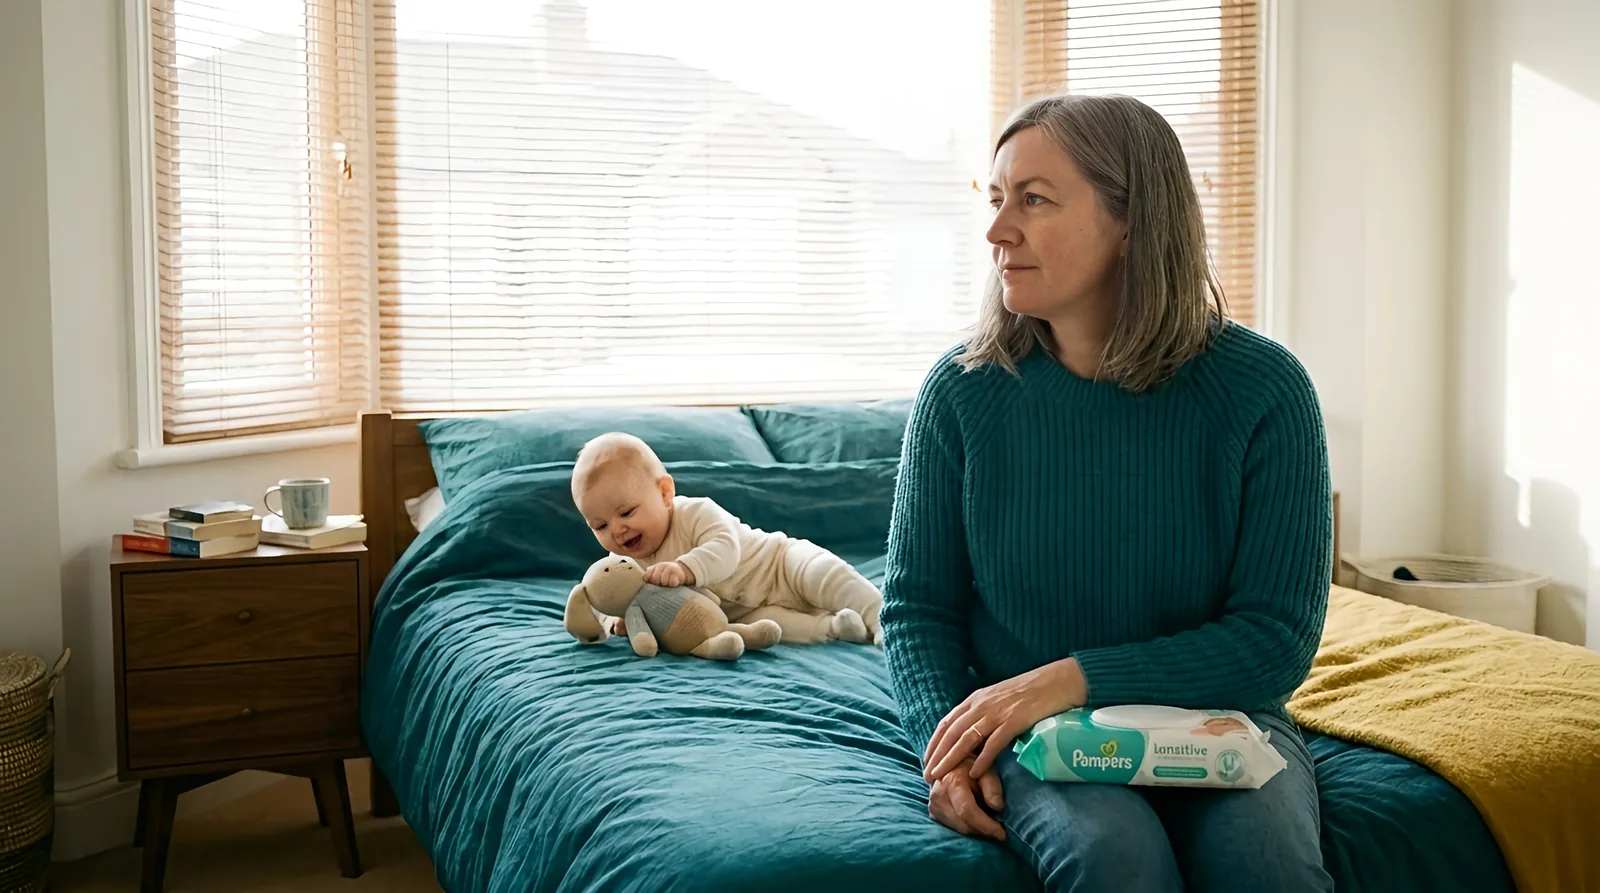
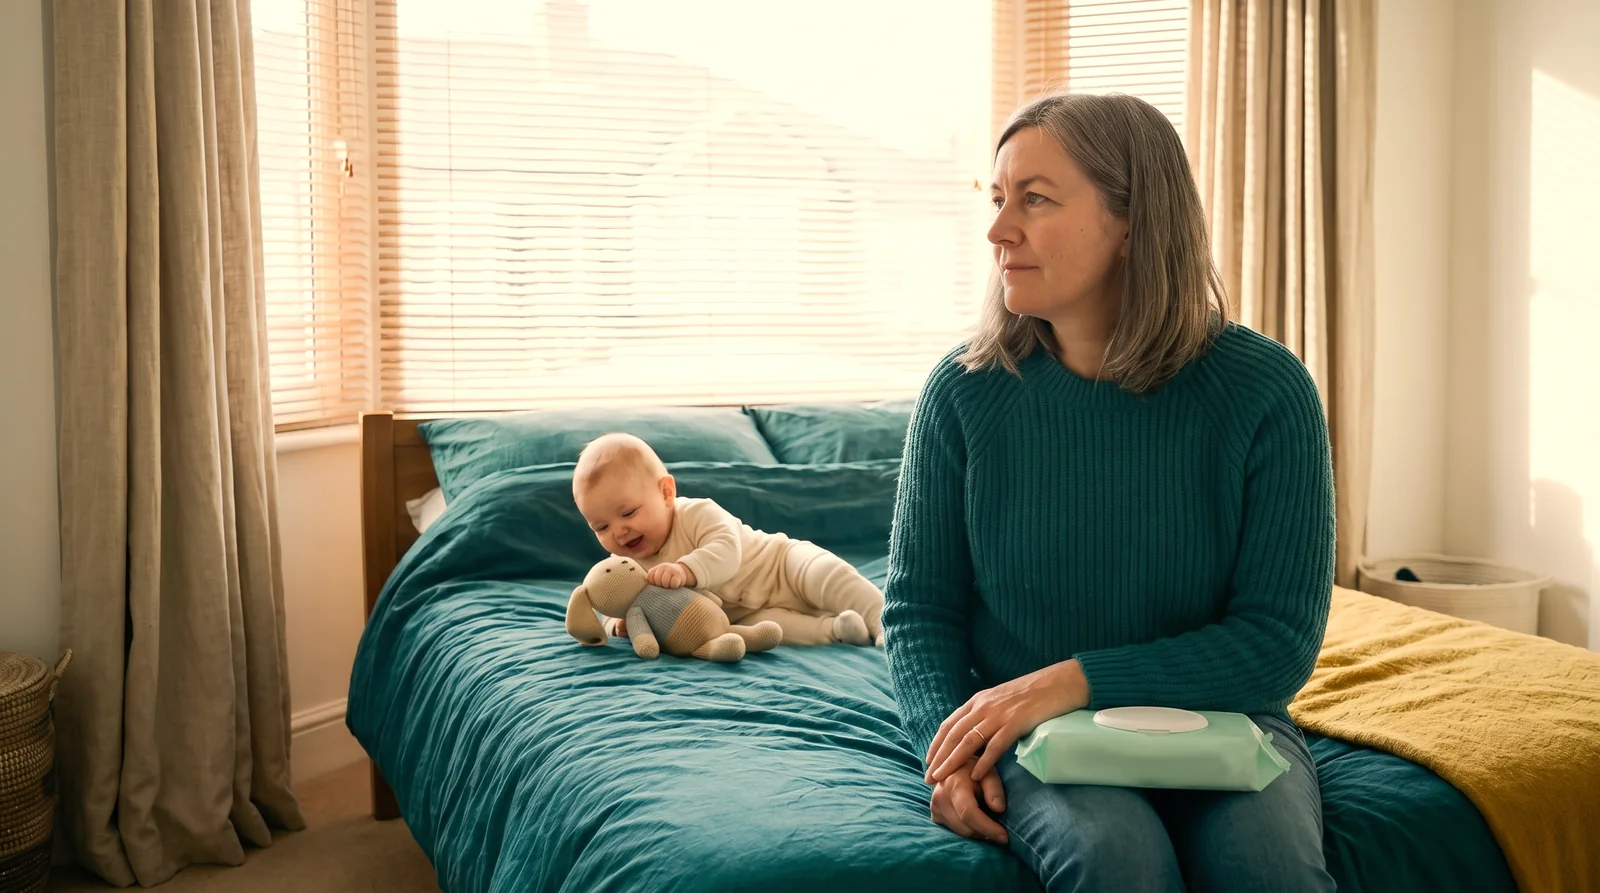
Photos: arebabywipe hero/villain/turning point reshot, plain unbranded pack (no Pampers), curtains and checklist fixes

diff --git a/blog-pipeline/photos-completed/2026-08-26.md b/blog-pipeline/photos-completed/2026-08-26.md
@@ -4,7 +4,7 @@ post_title: Are Baby Wipes Safe? What You Are Wiping On a Baby Ten Times a Day (
 slug: are-baby-wipes-safe
 status: done
 cameron_processed: false
-note: "RESHOT 2026-08-23 on ImagineArt (Nano Banana Pro, each frame enhanced to 2752px then delivered at 1600px webp). THIS SUPERSEDES the 2026-08-11 version, which rendered the wipes pack completely BLANK with no branding. Same five filenames, same URLs, new images. The pack is now the REAL Pampers Sensitive: soft teal-turquoise pouch, white Pampers script wordmark with the yellow heart over the a, sensitive in a green band, white hinged flip lid. The adult is now clearly a woman of about 52 with greying hair and her baby GRANDCHILD, which fits the women 40 to 60 audience rule instead of reading as a young parent post. ONE bedroom locked by reference across hero, villain and turning point (teal duvet, mustard throw, walnut nightstand and chest of drawers, knitted rabbit, WOODEN VENETIAN BLINDS on the bay window, pale carpet). Hero is her kneeling at the bed changing the laughing baby on a mat with the Pampers pack closed beside them. Villain is the coldest frame, nobody in it: the same chest of drawers on flat grey light with the pack open, its lid propped up and one wipe pulled halfway out and gone stiff, surrounded by the honest aftermath of the morning (screwed up muslins, a cold mug of tea, a knotted nappy sack, a hairbrush, a phone face down, the bed unmade behind). Lived-in, NOT empty and NOT eerie. Turning point sits her on the edge of the bed with the closed pack resting on one knee, looking off toward the window, settled, decision already made, NOT reading the pack, the baby content beside her with the rabbit. Belonging moves to her living room rug, mid-conversation with a clearly different woman of the same age, two babies playing with stacking cups between them, mugs up on the table out of reach, no packaging in frame. Freedom is the warmest: the baby on her hip at the kitchen sink, both laughing forehead to forehead, hands being wiped with a warm flannel cloth under the tap, full golden light through the blinds, no plastic packaging anywhere. Villain is the wipe companies, never the reader."
+note: "RESHOT 2026-08-23 on ImagineArt (Nano Banana Pro, each frame enhanced to 2752px then delivered at 1600px webp). THIS SUPERSEDES the 2026-08-11 version, which rendered the wipes pack completely BLANK with no branding. Same five filenames, same URLs, new images. The pack is now the REAL Pampers Sensitive: soft teal-turquoise pouch, white Pampers script wordmark with the yellow heart over the a, sensitive in a green band, white hinged flip lid. The adult is now clearly a woman of about 52 with greying hair and her baby GRANDCHILD, which fits the women 40 to 60 audience rule instead of reading as a young parent post. ONE bedroom locked by reference across hero, villain and turning point (teal duvet, mustard throw, walnut nightstand and chest of drawers, knitted rabbit, WOODEN VENETIAN BLINDS on the bay window, pale carpet). Hero is her kneeling at the bed changing the laughing baby on a mat with the Pampers pack closed beside them. Villain is the coldest frame, nobody in it: the same chest of drawers on flat grey light with the pack open, its lid propped up and one wipe pulled halfway out and gone stiff, surrounded by the honest aftermath of the morning (screwed up muslins, a cold mug of tea, a knotted nappy sack, a hairbrush, a phone face down, the bed unmade behind). Lived-in, NOT empty and NOT eerie. Turning point sits her on the edge of the bed with the closed pack resting on one knee, looking off toward the window, settled, decision already made, NOT reading the pack, the baby content beside her with the rabbit. Belonging moves to her living room rug, mid-conversation with a clearly different woman of the same age, two babies playing with stacking cups between them, mugs up on the table out of reach, no packaging in frame. Freedom is the warmest: the baby on her hip at the kitchen sink, both laughing forehead to forehead, hands being wiped with a warm flannel cloth under the tap, full golden light through the blinds, no plastic packaging anywhere. Villain is the wipe companies, never the reader. RESHOT 2026-10-04 (RESHOOT-are-baby-wipes-safe.md): the post blames Target Up and Up, and every pack in hero, villain and turning point was a branded Pampers pack, with the turning point also reading Lansitive. All three now show a completely plain pale mint pouch with a white flip lid and no wordmark or text, the option the request named best. Same woman, teal jumper, teal bed, mustard throw and bedroom kept by editing the original frames. Brought up to the current checklist at the same time: full-length linen curtains added beside the blinds in hero and turning point; the villain cropped below the window and cooled; a glass, a cold mug of tea, a phone, a clock, a mug and books removed; a book title and lettering on a knotted muslin painted out. Light measured: villain 0.98, hero 1.12, turning point 1.23, belonging 1.32, freedom 1.38. Belonging and freedom were left untouched as the request asked; note both still show blinds only, and belonging has mugs and a book on the table."
 ---
 
 ### arebabywipe-hero-v1

diff --git a/blog-pipeline/photo-requests/RESHOOT-are-baby-wipes-safe.md b/blog-pipeline/photo-requests/RESHOOT-are-baby-wipes-safe.md
@@ -5,7 +5,7 @@ slug: are-baby-wipes-safe
 track: shopper
 queue_file: blog-pipeline/queue/are-baby-wipes-safe.md
 beats: 3
-status: RESHOOT NEEDED, post is LIVE with the wrong brand on it
+status: complete
 priority: high
 replaces: photos-completed/2026-08-26.md (arebabywipe set)
 style: "REAL-LIFE standard (Shannon-approved 2026-07-31 on the baby powder set). Ordinary varied everyday clothing, honest lived-in clutter, natural true-to-life color. NOT candy-bright, NOT sad-beige. Distinct real-looking people, five fingers per hand, visible pores, documentary realism. Continuity: same woman, same home, across the set. Nano Banana Pro at 4K."
